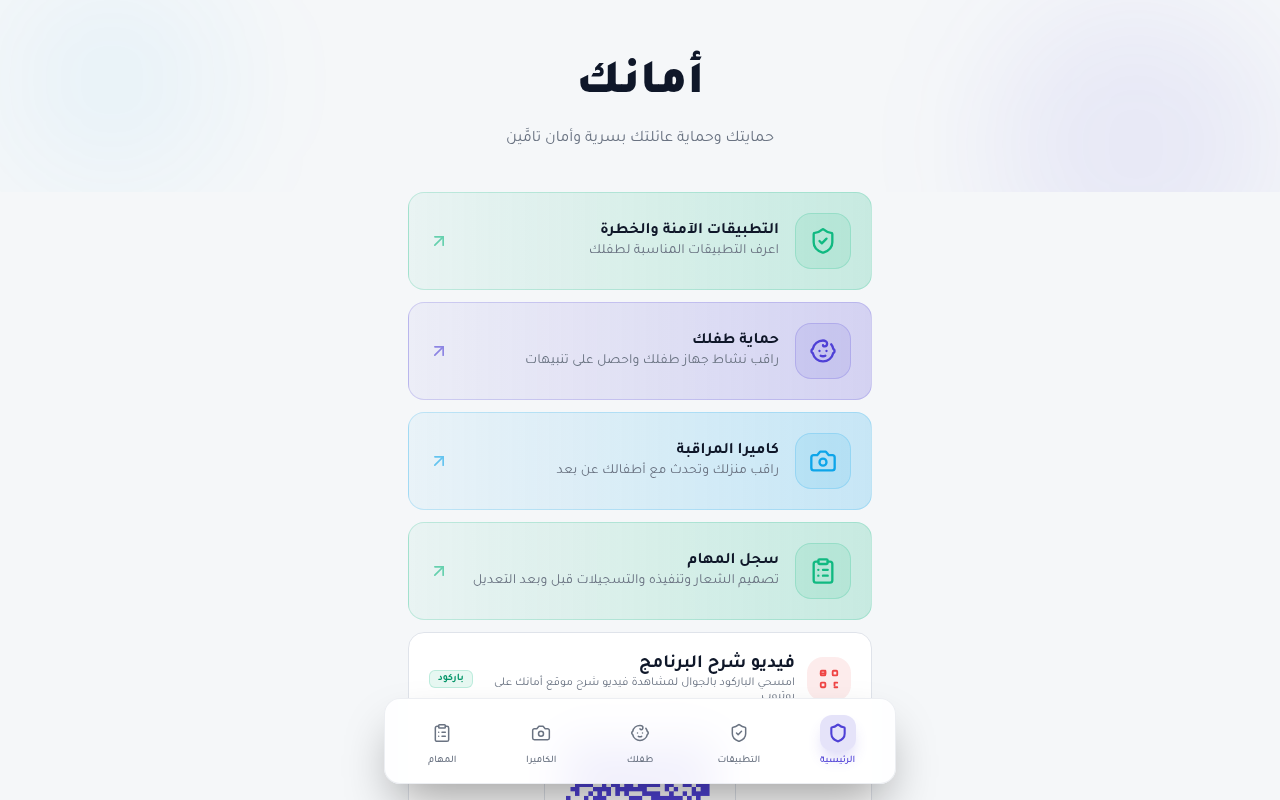
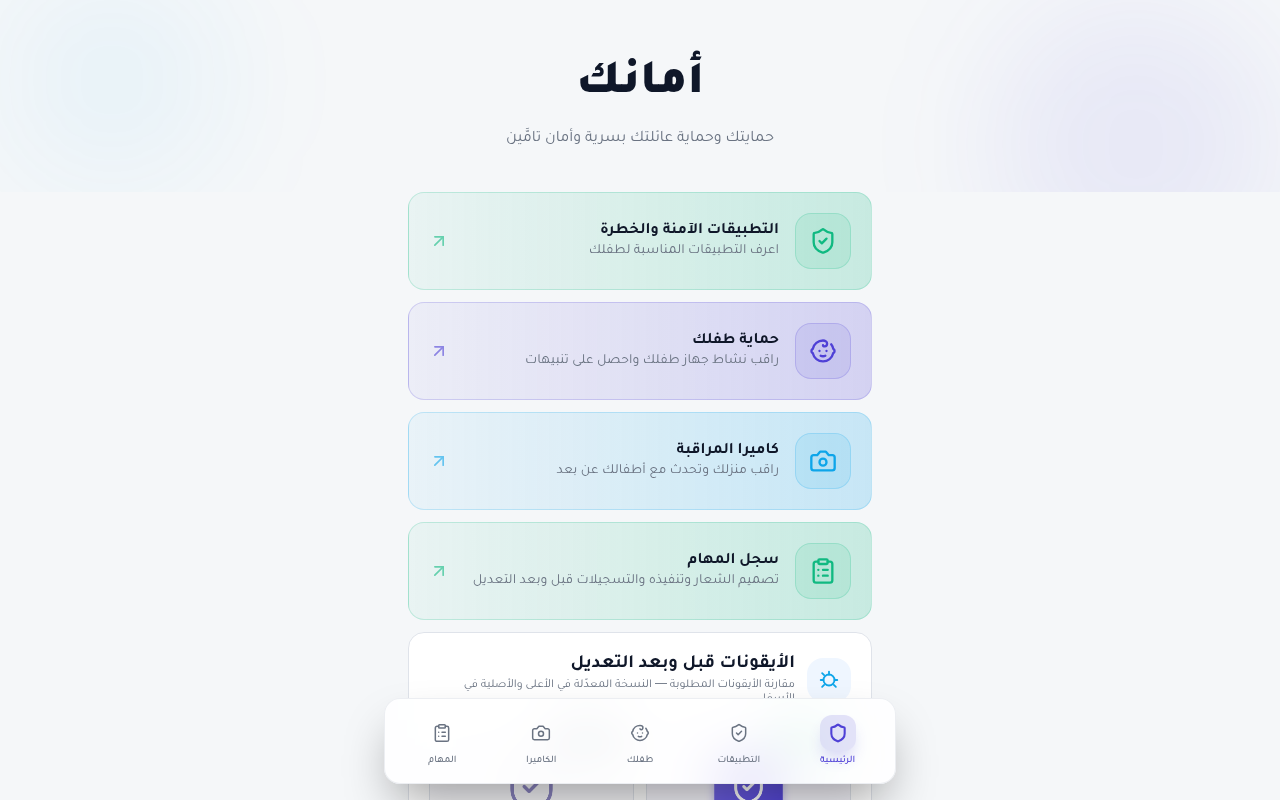
حذف بطاقة باركود الفيديو من الصفحة الرئيسية (يُدرج في ملف المشروع) + تحديث لقطة بعد التعديل

Changed region(s): [[0.3438, 0.8125, 0.6562, 0.875], [0.4062, 0.9688, 0.625, 1.0]]

diff --git a/index.html b/index.html
@@ -94,26 +94,7 @@
           </div>
         </a>
 
-        <!-- ===== قسم باركود فيديو الشرح (باركود فقط بدون فيديو مدمج) ===== -->
-        <section class="video-card" data-animate>
-          <div class="video-head">
-            <div class="video-head-icon">
-              <svg xmlns="http://www.w3.org/2000/svg" width="22" height="22" viewBox="0 0 24 24" fill="none" stroke="currentColor" stroke-width="2" stroke-linecap="round" stroke-linejoin="round"><rect width="5" height="5" x="3" y="3" rx="1"/><rect width="5" height="5" x="16" y="3" rx="1"/><rect width="5" height="5" x="3" y="16" rx="1"/><path d="M21 16h-3v3"/><path d="M21 21h-3"/><path d="M8 3v3H3"/></svg>
-            </div>
-            <div>
-              <h3 class="link-card-title">فيديو شرح البرنامج</h3>
-              <p class="link-card-sub">امسحي الباركود بالجوال لمشاهدة فيديو شرح موقع أمانك على يوتيوب</p>
-            </div>
-            <span class="badge emerald">باركود</span>
-          </div>
-
-          <div class="qr-center">
-            <div class="qr-box qr-big">
-              <img src="images/qr-video.png" alt="باركود فيديو شرح أمانك">
-              <p class="qr-label">امسحي الباركود بكاميرا الجوال لمشاهدة الفيديو مباشرة على يوتيوب</p>
-            </div>
-          </div>
-        </section>
+        <!-- ✔ حُذف قسم باركود فيديو الشرح بناءً على الملاحظة — يُدرَج الباركود في ملف المشروع بدلاً من الموقع -->
 
         <!-- ===== الأيقونات قبل وبعد التعديل ===== -->
         <section class="gallery-card" data-animate>
